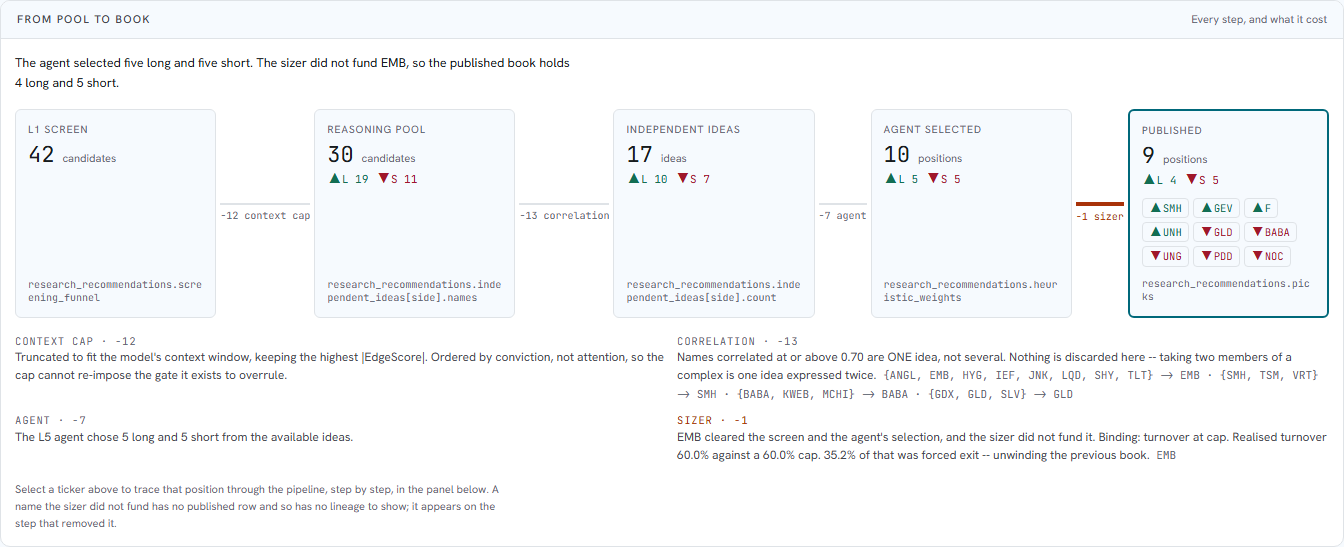
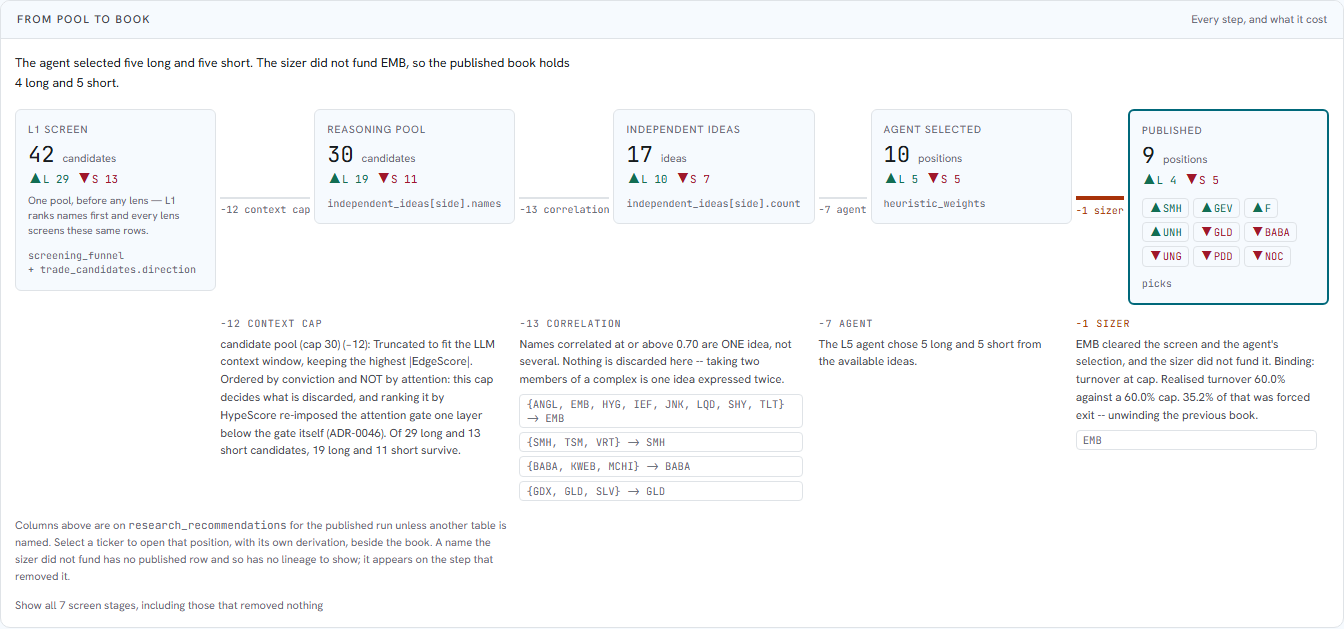
fix(book): each step's account of itself sits under its own connector
The explanations were a two-column definition list below the whole chain, so
"why did 12 candidates go?" was answered several hundred pixels from the `−12`
that raised the question, and in a different reading order: the list ran
context-cap, correlation across, then agent, sizer — while the chain runs
context-cap, correlation, agent, sizer left to right.

They are now the SECOND ROW of the same grid, each starting in its own
connector's column. Measured left edges, connector against detail:

    context   292 / 292      chosen      891 / 891
    ideas     591 / 591      published  1148 / 1148

More graphical, in the two places there was structure to show. The correlation
complexes were a run-on string —

    {ANGL, EMB, ...} -> EMB · {SMH, TSM, VRT} -> SMH · {BABA, KWEB, MCHI} -> ...

— and are now one boxed row each, so the four collapses are countable at a
glance rather than parsed out of punctuation. The sizer's dropped name gets the
same treatment.

EXPLICIT PLACEMENT, and no second code path for narrow. The columns are computed
per index, so they cannot be Tailwind classes — Tailwind only generates literal
strings — and are inline `gridColumn` / `gridRow` instead. The browser ignores
both while the container is `flex`, which is what it is below `lg`. DOM order is
already node, connector, detail, node, … so stacked it reads in pipeline order
with nothing added: verified at 430, 13 elements in exactly that sequence, no
horizontal overflow.

1133 frontend tests, tsc clean.

diff --git a/frontend/components/book/BookFunnel.tsx b/frontend/components/book/BookFunnel.tsx
@@ -35,7 +35,7 @@
 // renders on the edge that removed it, with the constraint that did the
 // removing.
 
-import { useMemo } from "react";
+import { Fragment, useMemo } from "react";
 import {
   buildBookFunnel,
   funnelHeadline,
@@ -178,24 +178,36 @@ export default function BookFunnel({
           </p>
         )}
 
-        {/* The chain. Vertical below `lg` -- a five-across row of boxes at phone
-            width is four line-broken numbers and no legible flow.
-            NINE TRACKS, NOT FIVE. Each `<li>` is `display: contents`, so it emits
-            TWO grid items (its connector and its node) rather than one; five
-            columns therefore wrapped the chain mid-flow, putting `Agent selected`
-            on a second row under `L1 screen` and breaking the left-to-right
-            reading the panel exists for. The tracks alternate 1fr/auto so the
-            nodes share a width and the connectors take only the label. */}
-        <ol className="m-0 p-0 list-none grid gap-0 items-stretch lg:grid-cols-[minmax(0,1fr)_auto_minmax(0,1fr)_auto_minmax(0,1fr)_auto_minmax(0,1fr)_auto_minmax(0,1fr)]">
+        {/* The chain, and each step's account of itself directly beneath it.
+            The explanations used to be a two-column definition list below the
+            whole row, so "why did 12 candidates go?" was answered several
+            hundred pixels from the `−12` that raised the question and in a
+            different reading order. They are now the SECOND ROW of the same
+            grid, each one starting in its own connector's column.
+
+            EXPLICIT PLACEMENT, and a flex column below `lg`. The columns cannot
+            be Tailwind classes because they are computed per index and Tailwind
+            only generates literal class strings — so they are inline
+            `gridColumn` / `gridRow`, which the browser ignores while the
+            container is `flex`. That is what makes the narrow layout work with
+            no second code path: DOM order is already node, connector, prose,
+            node, … so stacked it reads in pipeline order.
+
+            NINE TRACKS. Nodes land on the odd columns, connectors on the even
+            ones, and each prose cell starts at its connector and spans into the
+            node it produced. */}
+        <div className="m-0 p-0 flex flex-col gap-3 lg:grid lg:gap-x-0 lg:gap-y-3 lg:items-stretch lg:grid-cols-[minmax(0,1fr)_auto_minmax(0,1fr)_auto_minmax(0,1fr)_auto_minmax(0,1fr)_auto_minmax(0,1fr)]">
           {funnel.nodes.map((node, i) => {
             const edge = funnel.edges.find((e) => e.to === node.id);
+            const edgeCol = i * 2;           // 2, 4, 6, 8 for i = 1..4
             return (
-              <li key={node.id} className="min-w-0 contents">
+              <Fragment key={node.id}>
                 {/* The connector carries the edge's label and cost. It is the
-                    only place a removal is described, so it is never decoration. */}
+                    only place a removal is named, so it is never decoration. */}
                 {i > 0 && edge && (
                   <div
-                    className="flex lg:flex-col items-center justify-center gap-1 py-2 lg:py-0 lg:px-1"
+                    className="flex lg:flex-col items-center justify-center gap-1 py-1 lg:py-0 lg:px-1"
+                    style={{ gridColumn: edgeCol, gridRow: 1 }}
                     data-testid={`funnel-edge-${node.id}`}
                   >
                     <div
@@ -212,77 +224,81 @@ export default function BookFunnel({
                         color: edge.notable ? "var(--warning)" : "var(--text-tertiary)",
                       }}
                     >
-                      {/* `−0` is noise, not information: an edge that removed
-                          nothing should read as a step, not as a cost of zero.
-                          Live on the credit lens, where the agent took all three
-                          available ideas. */}
                       {edge.removed ? `−${edge.removed}` : ""} {edge.label}
                     </span>
                   </div>
                 )}
-                <Node node={node} emphasise={node.id === "published"}>
-                  {node.id === "published" && publishedAssets.length > 0 && (
-                    <div className="flex flex-wrap gap-1 pt-1">
-                      {publishedAssets.map((p) => {
-                        const active = selectedAsset === p.asset;
-                        return (
-                          <button
-                            key={p.asset}
-                            type="button"
-                            onClick={() => onSelectAsset?.(p.asset)}
-                            aria-pressed={active}
-                            title={`Show the lineage for ${p.asset}`}
-                            className="num text-[10.5px] px-1.5 py-0.5 rounded border transition-colors"
-                            style={{
-                              borderColor: active ? "var(--accent)" : "var(--border)",
-                              background: active ? "var(--accent)" : "transparent",
-                              color: active
-                                ? "var(--bg-primary)"
-                                : p.direction === "long"
-                                  ? "var(--long)"
-                                  : "var(--short)",
-                            }}
-                          >
-                            {p.direction === "long" ? "▲" : "▼"}
-                            {p.asset}
-                          </button>
-                        );
-                      })}
+
+                <div style={{ gridColumn: i * 2 + 1, gridRow: 1 }} className="min-w-0">
+                  <Node node={node} emphasise={node.id === "published"}>
+                    {node.id === "published" && publishedAssets.length > 0 && (
+                      <div className="flex flex-wrap gap-1 pt-1">
+                        {publishedAssets.map((pk) => {
+                          const active = selectedAsset === pk.asset;
+                          return (
+                            <button
+                              key={pk.asset}
+                              type="button"
+                              onClick={() => onSelectAsset?.(pk.asset)}
+                              aria-pressed={active}
+                              title={`Open the ${pk.asset} position`}
+                              className="num text-[10.5px] px-1.5 py-0.5 rounded border transition-colors"
+                              style={{
+                                borderColor: active ? "var(--accent)" : "var(--border)",
+                                background: active ? "var(--accent)" : "transparent",
+                                color: active
+                                  ? "var(--bg-primary)"
+                                  : pk.direction === "long"
+                                    ? "var(--long)"
+                                    : "var(--short)",
+                              }}
+                            >
+                              {pk.direction === "long" ? "▲" : "▼"}
+                              {pk.asset}
+                            </button>
+                          );
+                        })}
+                      </div>
+                    )}
+                  </Node>
+                </div>
+
+                {/* This step's account of itself, under its own connector. */}
+                {i > 0 && edge && (
+                  <div
+                    className="min-w-0 text-[11.5px] leading-[1.55] lg:pl-1 lg:pr-3"
+                    style={{ gridColumn: `${edgeCol} / span 2`, gridRow: 2 }}
+                    data-testid={`funnel-detail-${node.id}`}
+                  >
+                    <div
+                      className="num text-[10px] uppercase tracking-[0.08em] mb-1"
+                      style={{
+                        color: edge.notable ? "var(--warning)" : "var(--text-tertiary)",
+                      }}
+                    >
+                      {edge.removed ? `−${edge.removed} ` : ""}
+                      {edge.label}
                     </div>
-                  )}
-                </Node>
-              </li>
+                    <p className="m-0 text-text-secondary">{edge.detail}</p>
+                    {edge.names?.length ? (
+                      <ul className="m-0 mt-1.5 p-0 list-none flex flex-col gap-1">
+                        {edge.names.map((n) => (
+                          <li
+                            key={n}
+                            className="num text-[10.5px] text-text-tertiary rounded border border-border px-1.5 py-[2px] break-words"
+                          >
+                            {n}
+                          </li>
+                        ))}
+                      </ul>
+                    ) : null}
+                  </div>
+                )}
+              </Fragment>
             );
           })}
-        </ol>
+        </div>
 
-        {/* The prose for each step, below the chain rather than inside a box.
-            A connector that had to hold this text would set the column width
-            for the whole row, and the numbers are what the row is for. */}
-        <dl className="m-0 mt-4 grid gap-2.5 sm:grid-cols-2 text-[12px] leading-[1.55]">
-          {funnel.edges.map((edge) => (
-            <div key={edge.to} className="min-w-0">
-              <dt
-                className="num text-[10.5px] uppercase tracking-[0.08em]"
-                style={{
-                  color: edge.notable ? "var(--warning)" : "var(--text-tertiary)",
-                }}
-              >
-                {edge.label}
-                {edge.removed ? ` · −${edge.removed}` : ""}
-              </dt>
-              <dd className="m-0 text-text-secondary">
-                {edge.detail}
-                {edge.names?.length ? (
-                  <span className="num text-[11px] text-text-tertiary">
-                    {" "}
-                    {edge.names.join(" · ")}
-                  </span>
-                ) : null}
-              </dd>
-            </div>
-          ))}
-        </dl>
 
         {/* The table the columns above belong to. Goal 1 asks that a reader can
             follow any figure to its origin without asking; the cards carry the
